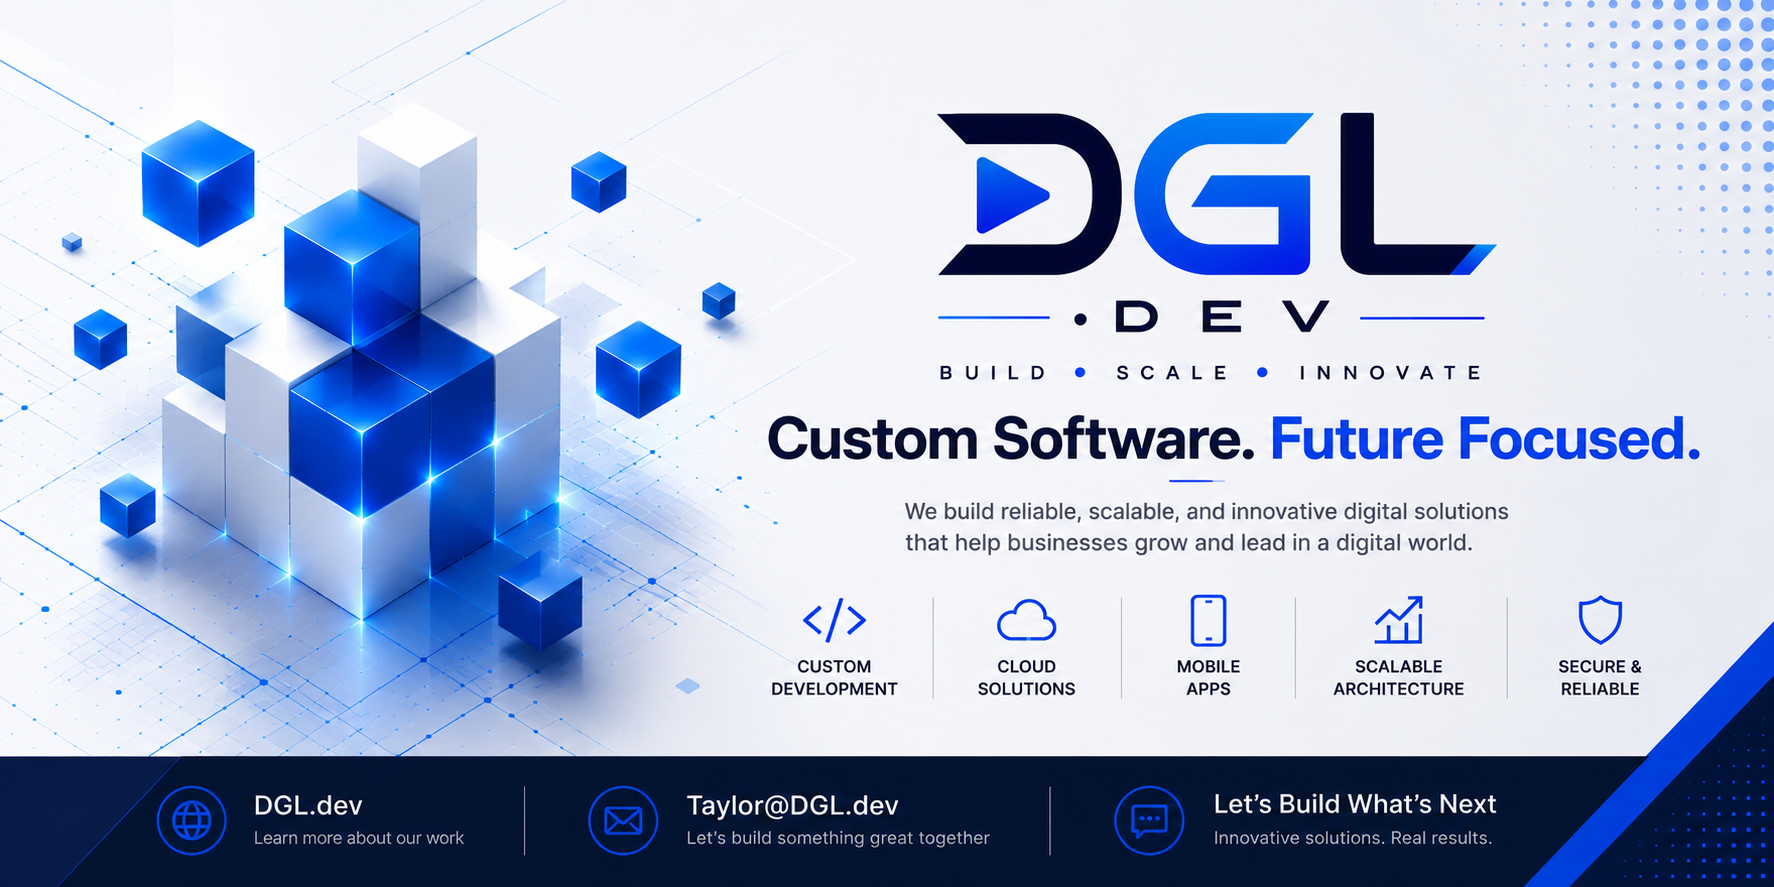
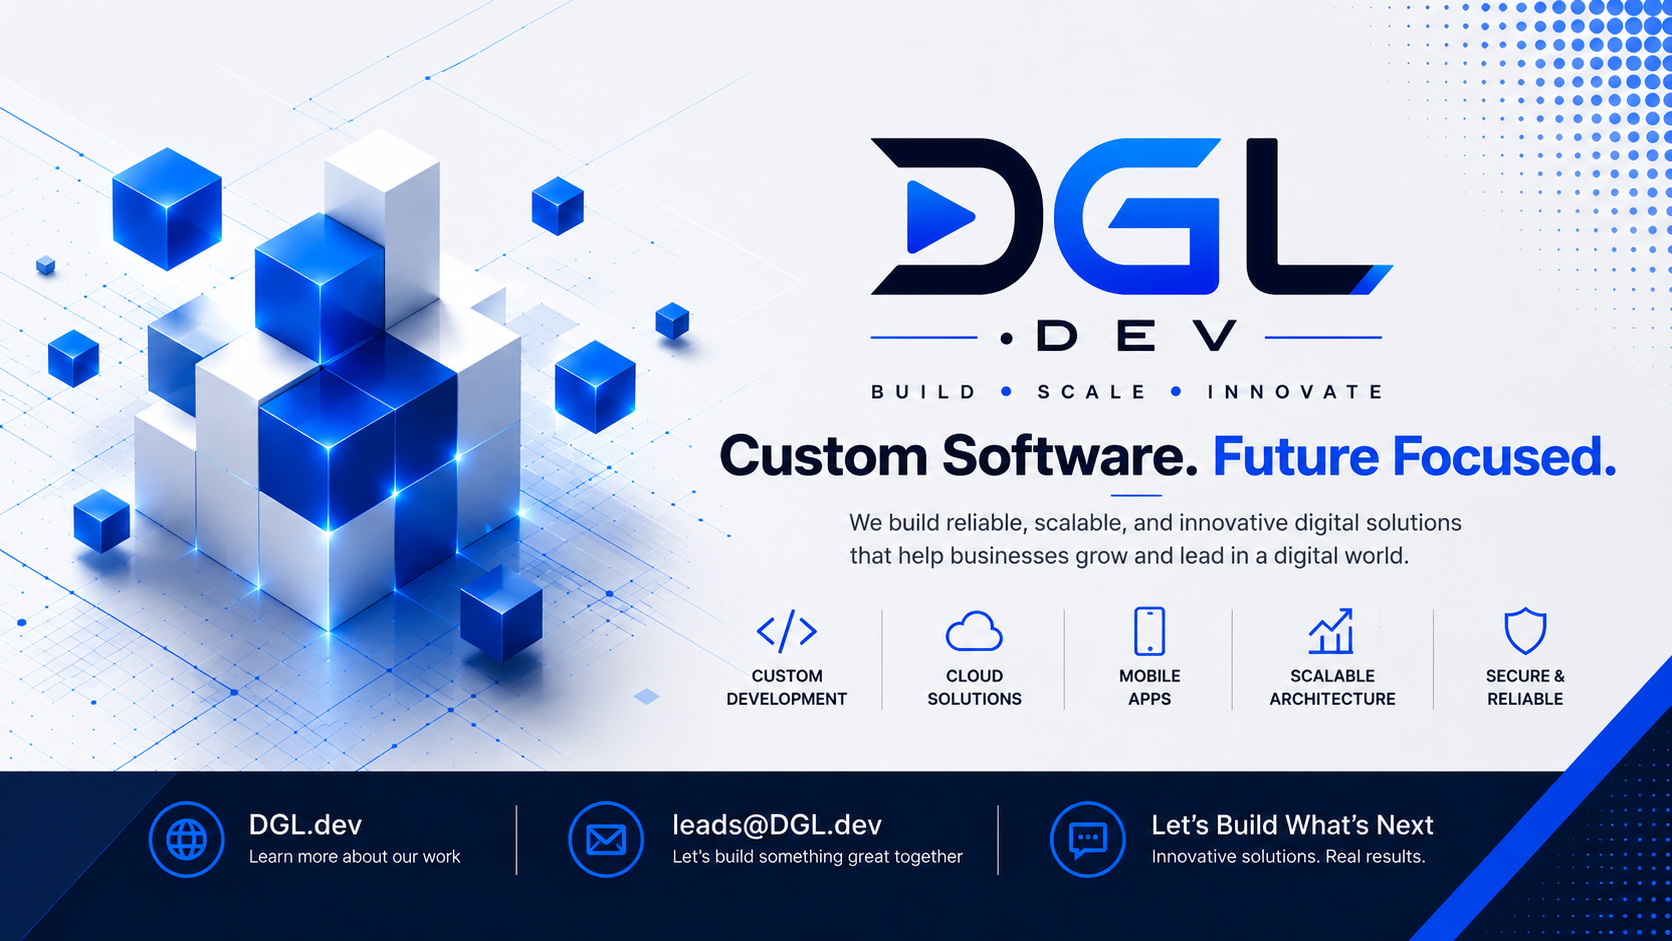
Built output - homepage artwork with leads@DGL.dev
Source: DGL-Labs/dgl-website ba3d373

New brand artwork supplied by Taylor, used as supplied. Intrinsic width and
height updated to 1672x941 to match, so the reserved box is the right shape.

.nojekyll, CNAME and README.md preserved.

diff --git a/index.html b/index.html
@@ -42,7 +42,7 @@ Digital Galactica Labs builds custom software, AI integration, web and mobile
 </p> <p class="hero__lead hero__lead--2" data-astro-cid-j7pv25f6>
 We run our own products in production, so what we build for you is shaped by what
         happens after launch, not only during the build.
-</p> <div class="hero__cta" data-astro-cid-j7pv25f6> <a class="btn btn--solid" href="/start-project/" data-loc="hero" data-astro-cid-j7pv25f6>Start a Project</a> <a class="btn" href="/work/" data-loc="hero" data-astro-cid-j7pv25f6>See Our Work</a> </div> </div> </section>  <section class="band" data-astro-cid-j7pv25f6> <div class="wrap" data-astro-cid-j7pv25f6> <div class="band__frame" data-astro-cid-j7pv25f6> <picture data-astro-cid-j7pv25f6> <source srcset="/img/dgl-hero.webp" type="image/webp" data-astro-cid-j7pv25f6> <img src="/img/dgl-hero.png" width="1774" height="887" loading="lazy" decoding="async" alt="DGL.dev brand artwork - custom development, cloud solutions, mobile apps, scalable architecture, secure and reliable." data-astro-cid-j7pv25f6> </picture> </div> </div> </section>  <section class="intro" data-astro-cid-j7pv25f6> <div class="wrap intro__in" data-astro-cid-j7pv25f6> <h2 data-astro-cid-j7pv25f6>Software built around how your business actually works.</h2> <div data-astro-cid-j7pv25f6> <p class="lead" data-astro-cid-j7pv25f6>
+</p> <div class="hero__cta" data-astro-cid-j7pv25f6> <a class="btn btn--solid" href="/start-project/" data-loc="hero" data-astro-cid-j7pv25f6>Start a Project</a> <a class="btn" href="/work/" data-loc="hero" data-astro-cid-j7pv25f6>See Our Work</a> </div> </div> </section>  <section class="band" data-astro-cid-j7pv25f6> <div class="wrap" data-astro-cid-j7pv25f6> <div class="band__frame" data-astro-cid-j7pv25f6> <picture data-astro-cid-j7pv25f6> <source srcset="/img/dgl-hero.webp" type="image/webp" data-astro-cid-j7pv25f6> <img src="/img/dgl-hero.png" width="1672" height="941" loading="lazy" decoding="async" alt="DGL.dev brand artwork - custom development, cloud solutions, mobile apps, scalable architecture, secure and reliable." data-astro-cid-j7pv25f6> </picture> </div> </div> </section>  <section class="intro" data-astro-cid-j7pv25f6> <div class="wrap intro__in" data-astro-cid-j7pv25f6> <h2 data-astro-cid-j7pv25f6>Software built around how your business actually works.</h2> <div data-astro-cid-j7pv25f6> <p class="lead" data-astro-cid-j7pv25f6>
 Digital Galactica Labs designs and builds custom software, AI integrations, web
           applications, mobile apps, APIs, and business automation.
 </p> <p class="lead" data-astro-cid-j7pv25f6>
